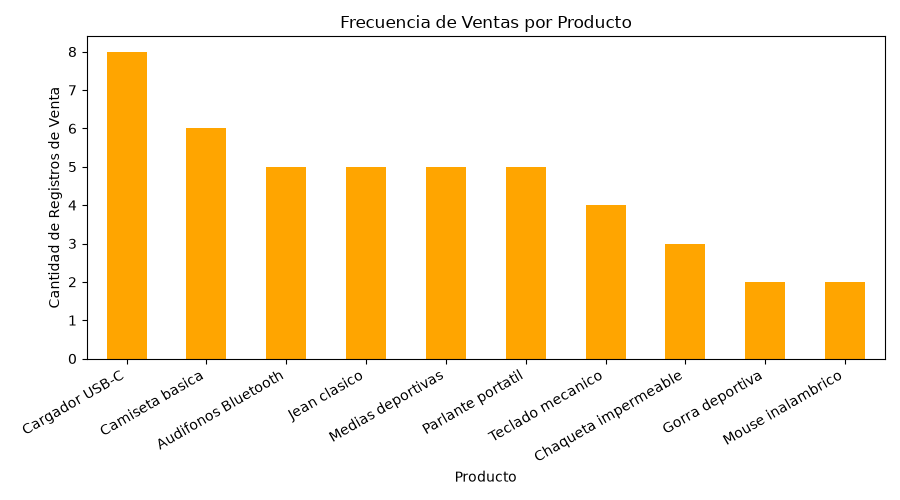
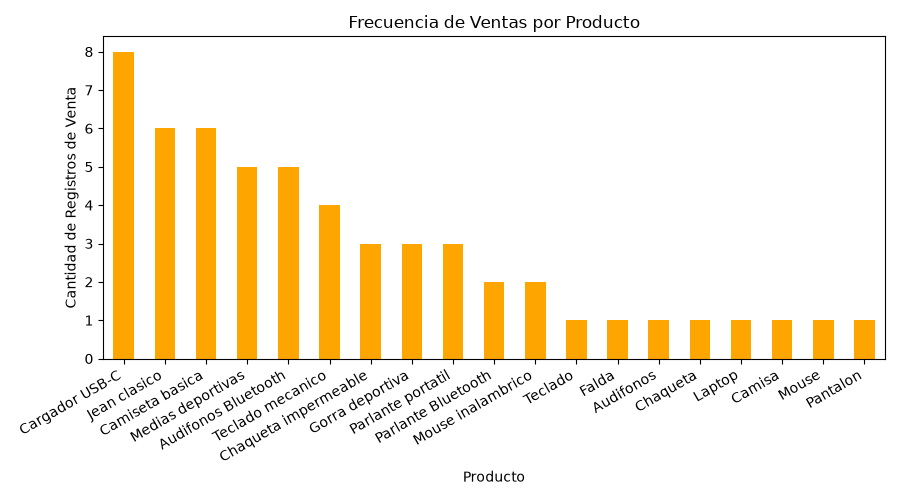
feat: integracion de metricas y reportes

diff --git a/main.py b/main.py
@@ -1,16 +1,21 @@
 import glob
+import os
 import matplotlib.pyplot as plt
 import pandas as pd
+
+# Asegurar que existan las carpetas necesarias
+os.makedirs("resultados", exist_ok=True)
 
 # ============================================
 # PARTE 1: Buscar y leer los archivos
 # ============================================
-archivos_csv = glob.glob("datos/sucursal_*.csv")
-archivos_xlsx = glob.glob("datos/sucursal_*.xlsx")
+archivos_csv = glob.glob("data/sucursal_*.csv")
+archivos_xlsx = glob.glob("data/sucursal_*.xlsx")
 lista_informes = []
 
 for archivo in archivos_csv:
-    df = pd.read_csv(archivo)
+    # Soporte para encoding en lectura CSV
+    df = pd.read_csv(archivo, encoding="utf-8")
     lista_informes.append(df)
     print(f"Leído CSV: {archivo} - {len(df)} filas")
 
@@ -84,7 +89,7 @@ plt.xlabel("Categoría")
 plt.xticks(rotation=0)
 plt.tight_layout()
 plt.savefig("resultados/grafico_ventas_categoria.png")
-plt.show()
+plt.close()
 
 # 6b. Gráfico de Torta: Participación por vendedor
 ventas_por_vendedor = df_consolidado.groupby("vendedor")[
@@ -97,7 +102,7 @@ ventas_por_vendedor.plot(
 plt.ylabel("")
 plt.tight_layout()
 plt.savefig("resultados/grafico_ventas_vendedor.png")
-plt.show()
+plt.close()
 
 # 6c. Producto más frecuente (Análisis con value_counts)
 conteo_productos = df_consolidado["producto"].value_counts()
@@ -113,4 +118,52 @@ plt.xlabel("Producto")
 plt.xticks(rotation=30, ha="right")
 plt.tight_layout()
 plt.savefig("resultados/grafico_productos_frecuencia.png")
-plt.show()
+plt.close()
+
+
+# ============================================
+# PARTE 7: Automatización, Registro de Log y Resumen Ejecutivo
+# ============================================
+def procesar_todo():
+    # 1. Registro en el log (con encoding="utf-8")
+    with open("resultados/log_automatizacion.txt", "a", encoding="utf-8") as log:
+        log.write(
+            f"[{pd.Timestamp.now()}] Procesamiento ejecutado exitosamente sobre {len(df_consolidado)} registros.\n"
+        )
+
+    # 2. Cálculo de Métricas requeridas e investigadas
+    total_ventas = df_consolidado["precio_unitario"].sum()
+    categoria_top = (
+        df_consolidado.groupby("categoria")["precio_unitario"].sum().idxmax()
+    )
+    vendedor_top = (
+        df_consolidado.groupby("vendedor")["precio_unitario"].sum().idxmax()
+    )
+
+    # Métricas adicionales solicitadas (investigadas):
+    # - Producto más vendido (por frecuencia usando value_counts)
+    producto_top = df_consolidado["producto"].value_counts().idxmax()
+    # - Promedio de venta por transacción (usando mean)
+    promedio_venta = df_consolidado["precio_unitario"].mean()
+
+    # 3. Banner visual en pantalla
+    print("\n" + "=" * 40)
+    print("  NUEVO REPORTE PROCESADO EXITOSAMENTE")
+    print(f"  Total ventas acumuladas: ${total_ventas:,.0f}")
+    print("=" * 40 + "\n")
+
+    # 4. Resumen ejecutivo en archivo de texto (con encoding="utf-8")
+    with open("resultados/resumen_ejecutivo.txt", "w", encoding="utf-8") as f:
+        f.write("RESUMEN EJECUTIVO - Bot de Ventas\n")
+        f.write(f"Fecha: {pd.Timestamp.now()}\n\n")
+        f.write(f"Categoría con mejor desempeño: {categoria_top}\n")
+        f.write(f"Vendedor con más ventas: {vendedor_top}\n")
+        f.write(f"Producto más vendido: {producto_top}\n")
+        f.write(f"Promedio de venta por transacción: ${promedio_venta:,.2f}\n")
+        f.write(f"Total de ventas acumuladas: ${total_ventas:,.0f}\n")
+
+    print("Proceso completado...")
+
+
+# Ejecución de la automatización
+procesar_todo()

diff --git a/automatizacion_47.py b/automatizacion_47.py
@@ -8,7 +8,7 @@ import glob
 import matplotlib.pyplot as plt
 
 # Se ajusta a tu carpeta "datos"
-ruta_datos = "datos"
+ruta_datos = "data"
 
 # Asegurar que la carpeta de resultados exista
 if not os.path.exists("resultados"):

diff --git a/README.md b/README.md
@@ -8,7 +8,7 @@ Proyecto desarrollado para automatizar la lectura, limpieza, consolidación y vi
 
 ```text
 bot-ventas/
-├── datos/
+├── data/
 │   ├── sucursal_barranquilla.xlsx
 │   ├── sucursal_bogota.xlsx
 │   ├── sucursal_cali.csv
